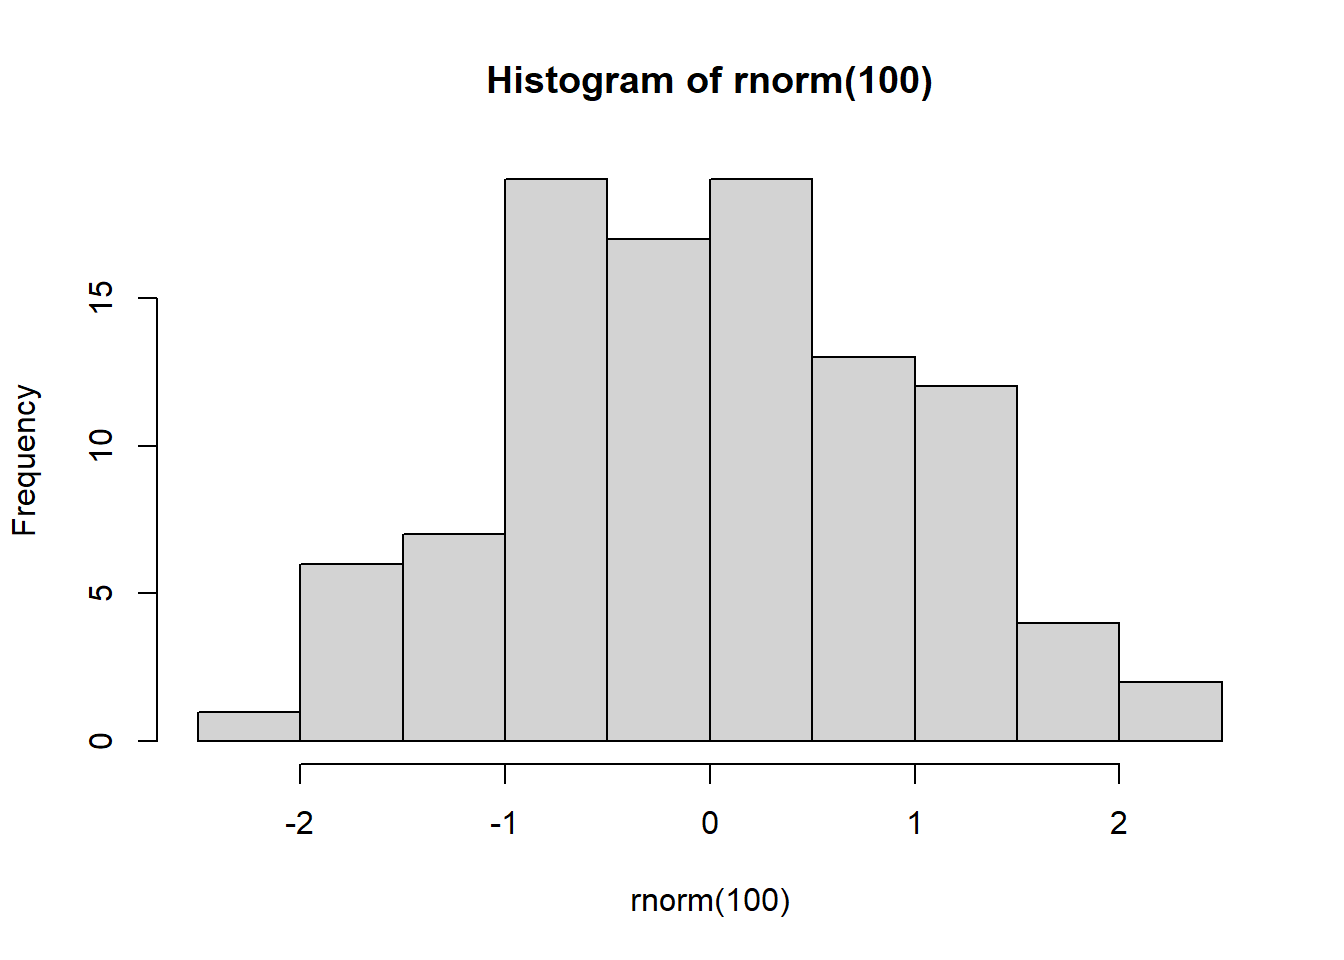
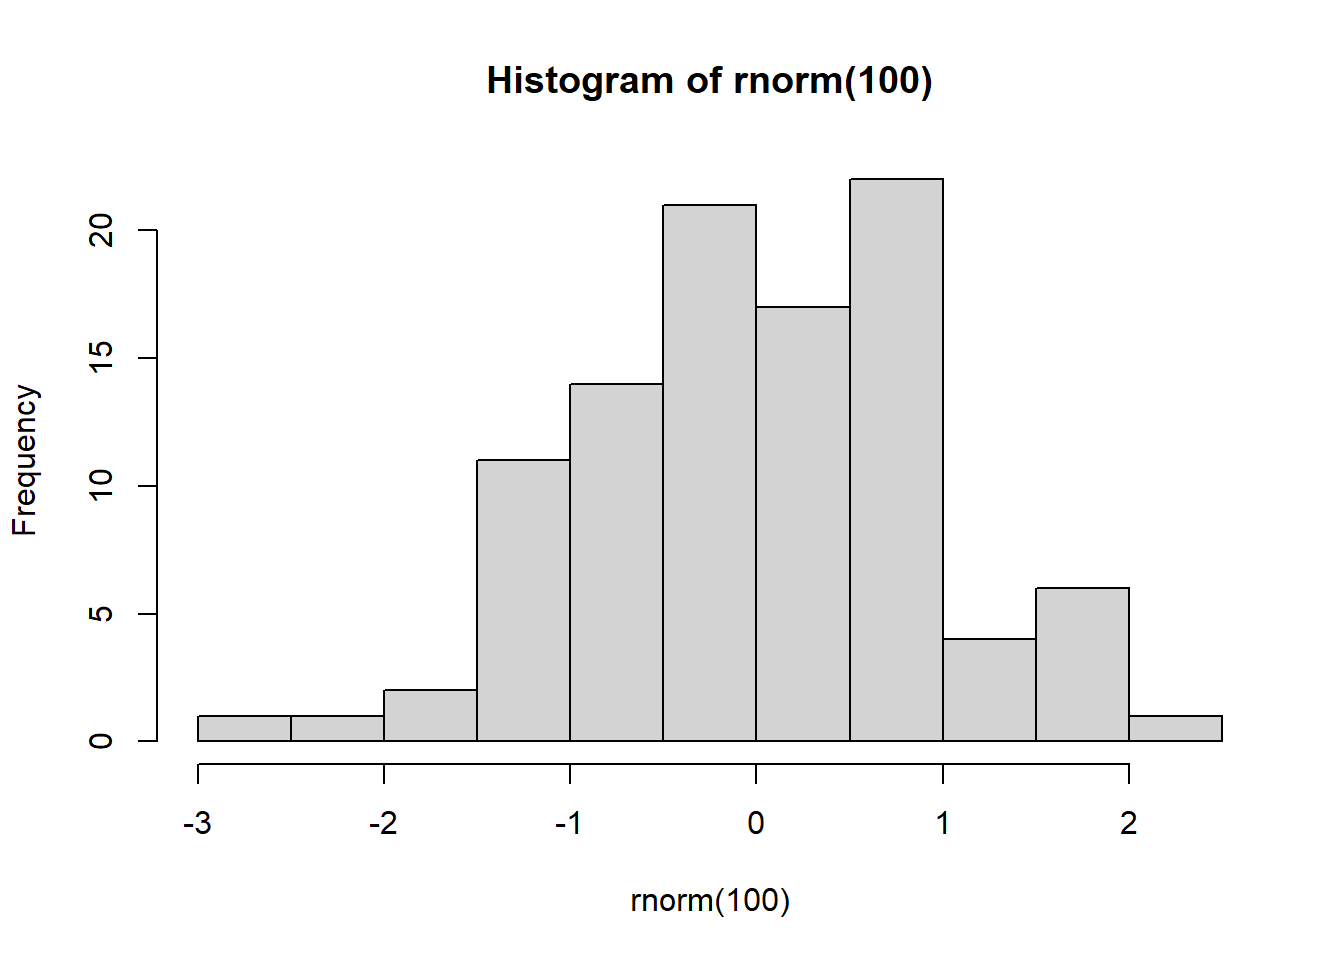
### Edit the YAML header: default code chunk options 🎬 Set some default code chunk options. I recommend these for reports

diff --git a/ngo-report.html b/ngo-report.html
@@ -24,41 +24,6 @@ ul.task-list li input[type="checkbox"] {
   margin: 0 0.8em 0.2em -1em; /* quarto-specific, see https://github.com/quarto-dev/quarto-cli/issues/4556 */ 
   vertical-align: middle;
 }
-/* CSS for syntax highlighting */
-html { -webkit-text-size-adjust: 100%; }
-pre > code.sourceCode { white-space: pre; position: relative; }
-pre > code.sourceCode > span { display: inline-block; line-height: 1.25; }
-pre > code.sourceCode > span:empty { height: 1.2em; }
-.sourceCode { overflow: visible; }
-code.sourceCode > span { color: inherit; text-decoration: inherit; }
-div.sourceCode { margin: 1em 0; }
-pre.sourceCode { margin: 0; }
-@media screen {
-div.sourceCode { overflow: auto; }
-}
-@media print {
-pre > code.sourceCode { white-space: pre-wrap; }
-pre > code.sourceCode > span { text-indent: -5em; padding-left: 5em; }
-}
-pre.numberSource code
-  { counter-reset: source-line 0; }
-pre.numberSource code > span
-  { position: relative; left: -4em; counter-increment: source-line; }
-pre.numberSource code > span > a:first-child::before
-  { content: counter(source-line);
-    position: relative; left: -1em; text-align: right; vertical-align: baseline;
-    border: none; display: inline-block;
-    -webkit-touch-callout: none; -webkit-user-select: none;
-    -khtml-user-select: none; -moz-user-select: none;
-    -ms-user-select: none; user-select: none;
-    padding: 0 4px; width: 4em;
-  }
-pre.numberSource { margin-left: 3em;  padding-left: 4px; }
-div.sourceCode
-  {   }
-@media screen {
-pre > code.sourceCode > span > a:first-child::before { text-decoration: underline; }
-}
 </style>
 
 
@@ -112,13 +77,11 @@ pre > code.sourceCode > span > a:first-child::before { text-decoration: underlin
 <h2 class="anchored" data-anchor-id="quarto">Quarto</h2>
 <p>Quarto enables you to weave together content and executable code into a finished document. To learn more about Quarto see <a href="https://quarto.org" class="uri">https://quarto.org</a>.</p>
 <div class="cell">
-<div class="code-copy-outer-scaffold"><div class="sourceCode cell-code" id="cb1"><pre class="sourceCode r code-with-copy"><code class="sourceCode r"><span id="cb1-1"><a href="#cb1-1" aria-hidden="true" tabindex="-1"></a><span class="dv">1</span> <span class="sc">+</span> <span class="dv">1</span></span></code></pre></div><button title="Copy to Clipboard" class="code-copy-button"><i class="bi"></i></button></div>
 <div class="cell-output cell-output-stdout">
 <pre><code>[1] 2</code></pre>
 </div>
 </div>
 <div class="cell">
-<div class="code-copy-outer-scaffold"><div class="sourceCode cell-code" id="cb3"><pre class="sourceCode r code-with-copy"><code class="sourceCode r"><span id="cb3-1"><a href="#cb3-1" aria-hidden="true" tabindex="-1"></a><span class="fu">hist</span>(<span class="fu">rnorm</span>(<span class="dv">100</span>))</span></code></pre></div><button title="Copy to Clipboard" class="code-copy-button"><i class="bi"></i></button></div>
 <div class="cell-output-display">
 <div>
 <figure class="figure">